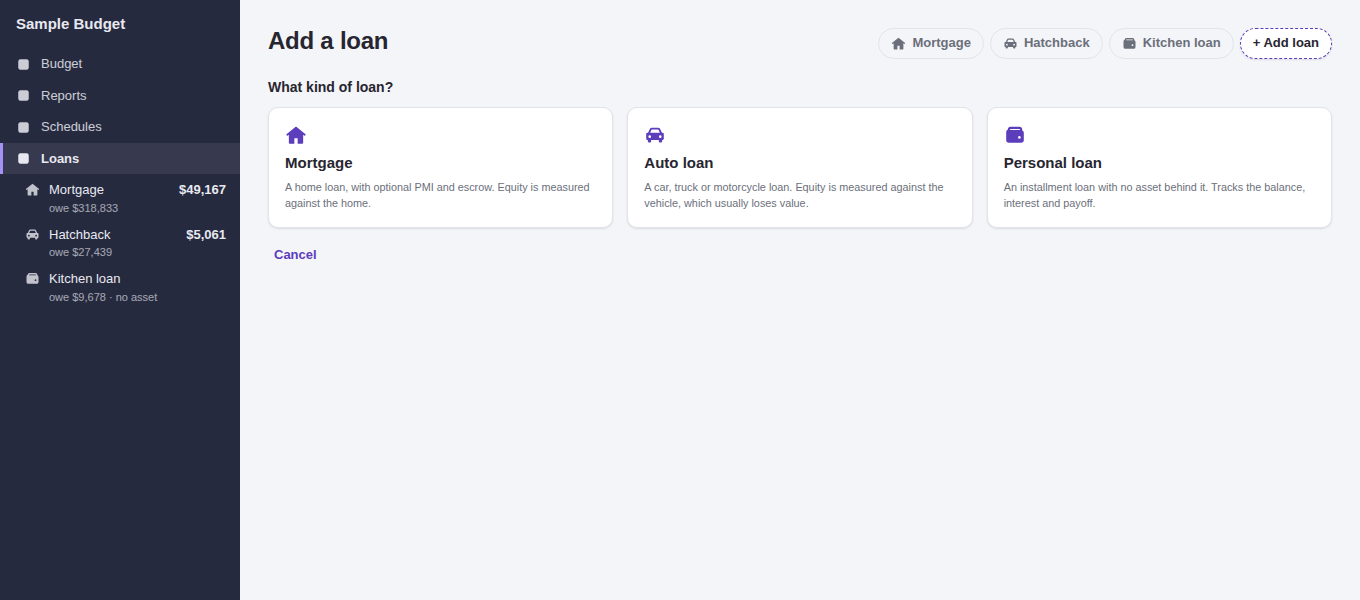
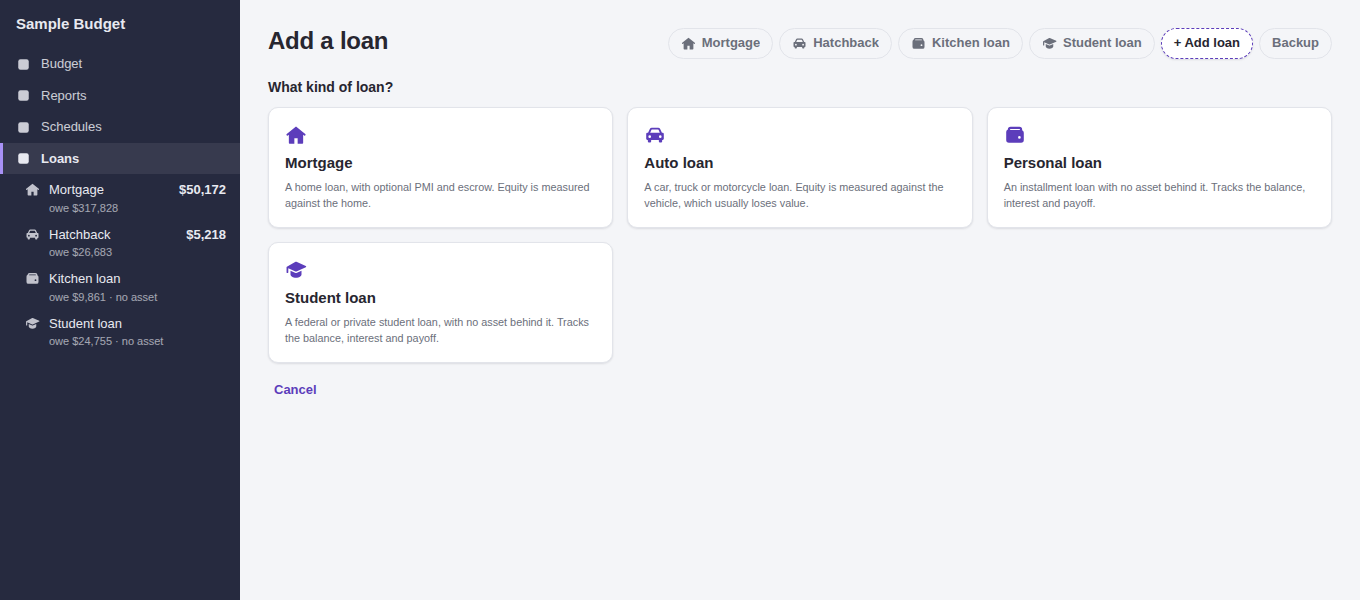
Preview and screenshots: every v0.2.0 feature, with made-up data
The preview gains a student loan, extra payments, a car valued from a
made-up Actual account, fees, a lender's table and a balance cross-check.
Screenshots are regenerated from it, plus new ones for what-if, extra
payments, the table import, the account value, the effective rate and
a student loan.

diff --git a/src/ui/preview.tsx b/src/ui/preview.tsx
@@ -6,7 +6,7 @@
  *   ?theme=dark   Actual's dark theme
  *   ?empty        first run, no loans yet
  *   ?privacy      privacy mode
- *   ?loan=2       open the car loan (1 mortgage, 2 car, 3 personal)
+ *   ?loan=2       open the car loan (1 mortgage, 2 car, 3 personal, 4 student)
  */
 import {
   addDays,
@@ -96,6 +96,20 @@ const PERSONAL: LoanSetup = {
   yearlyFee: { basis: 'balance', percent: 0.5, collect: 'separately' },
 };
 
+const STUDENT: LoanSetup = {
+  ...CAR,
+  originalAmount: 2_700_000,
+  annualRatePercent: 5.5,
+  termYears: 10,
+  termMonths: 120,
+  openDate: '2024-11-15',
+  firstPaymentDate: '2024-12-15',
+  paymentDay: 15,
+  interestMethod: 'daily',
+  downPayment: null,
+  fees: [],
+};
+
 interface Seed {
   loan: LoanRecord;
   setup: LoanSetup;
@@ -167,6 +181,19 @@ const SEEDS: Seed[] = [
     details: { fields: { servicerName: 'Sample Credit Union' }, custom: [] },
   },
 ];
+
+SEEDS.push({
+  loan: { id: 4, nickname: 'Student loan', type: 'student', createdAt: '', archived: false },
+  setup: STUDENT,
+  asset: null,
+  categoryId: 'cat-loans',
+  paid: 10,
+  extraOn: null,
+  extras: [['2025-06-02', 50_000]],
+  spareExtra: null,
+  details: { fields: { servicerName: 'Sample Student Loan Servicing' }, custom: [] },
+  escrow: [],
+});
 
 const CATEGORIES: CategoryGroup[] = [
   { id: 'g1', name: 'Housing', categories: [{ id: 'cat-mortgage', name: 'Mortgage' }, { id: 'cat-util', name: 'Utilities' }] },
